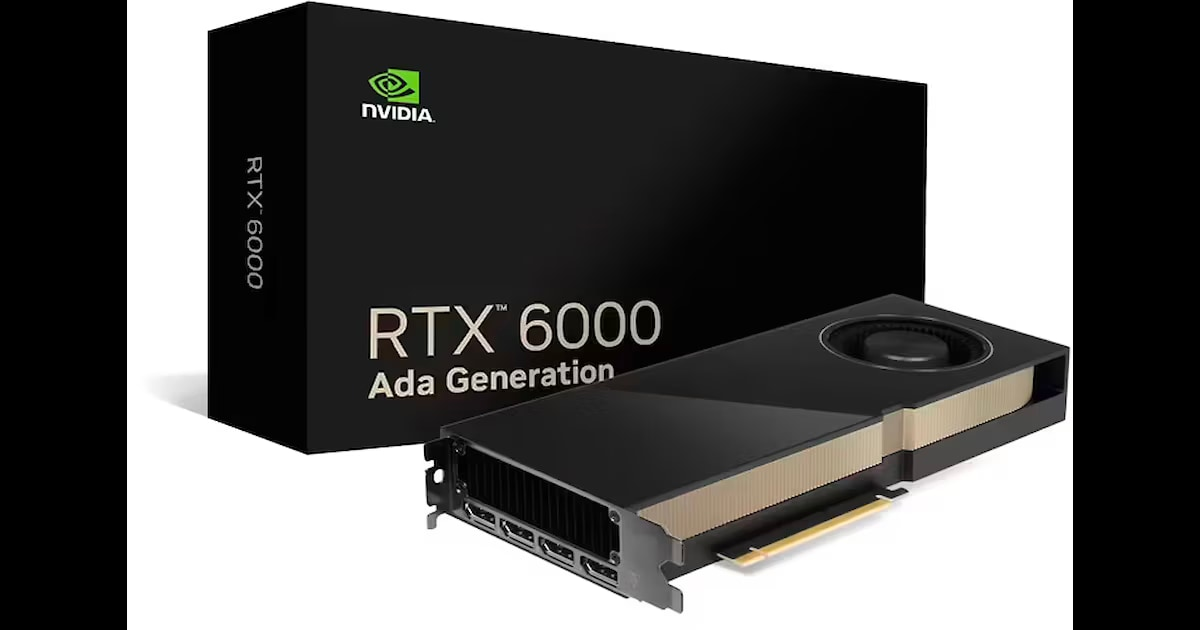
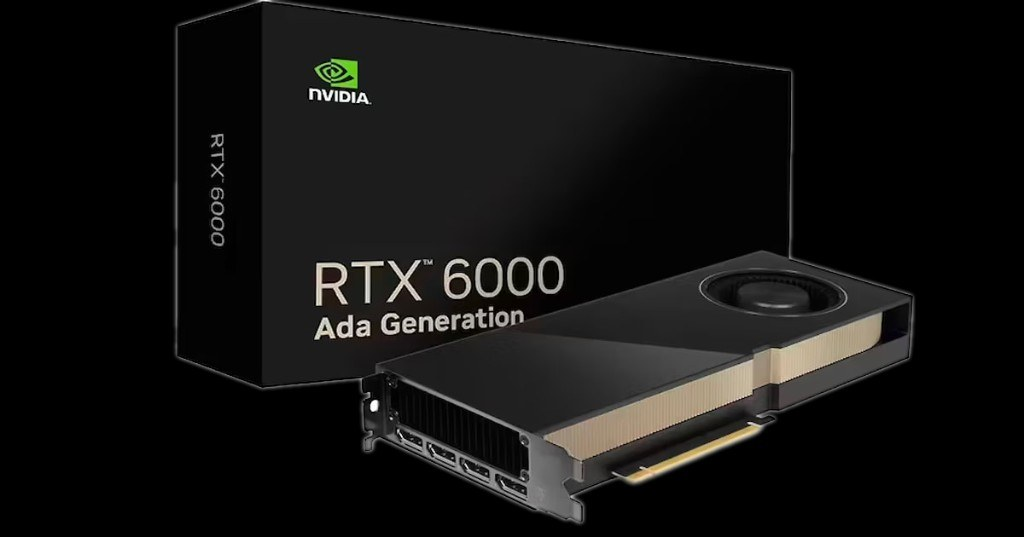
Refresh SSD, NIC, and GPU catalog photos and add Adminer for Postgres.
Add migrations for Micron, U.2, NIC, and RTX 6000 Ada image URLs, update product shots, and expose a web DB console on port 8081 for local development.

diff --git a/shop/components/storefront.tsx b/shop/components/storefront.tsx
@@ -109,7 +109,7 @@ export function Storefront() {
     (p): p is CatalogProduct => Boolean(p),
   );
   const partCPU = catalog.find((p) => p.sku_code === "000076");
-  const partRAM = catalog.find((p) => p.sku_code === "000001");
+  const partRAM = catalog.find((p) => p.sku_code === "000032");
   const partSSD = catalog.find((p) => p.sku_code === "000006");
 
   return (

diff --git a/shop/lib/product-image.ts b/shop/lib/product-image.ts
@@ -10,5 +10,9 @@ export function catalogImageUrl(imageUrl?: string | null): string {
     return raw;
   }
   const path = raw.startsWith("/") ? raw : `/${raw}`;
-  return `${API_URL}${path}`;
+  const base = `${API_URL}${path}`;
+  if (path.startsWith("/static/products/") && !/[?&]v=/.test(base)) {
+    return `${base}?v=20260834`;
+  }
+  return base;
 }

diff --git a/backend/cmd/seed/sku_image_test.go b/backend/cmd/seed/sku_image_test.go
@@ -13,6 +13,7 @@ func TestDefaultSKUImageURL(t *testing.T) {
 		{"SRV_RACK_2U", "Lenovo ThinkSystem SR650 V3 2U", "lenovo-sr650-v3.png"},
 		{"CPU_AMD", "AMD EPYC 7543 32C/64T Milan", "amd-epyc.jpg"},
 		{"MEM_SERVIDOR", "Samsung 32GB DDR4-3200 ECC RDIMM", "rdimm-micron.jpg"},
+		{"MEM_ECC", "Micron 16GB DDR4-3200 ECC RDIMM", "rdimm-micron.jpg"},
 		{"STG_SAN", "Seagate Exos X 2U12 12 baias SAS", "seagate-exos-chassis.png"},
 		{"SW_ACCESS", "Cisco Catalyst 9300 48p 1G", "cisco-catalyst-9300.png"},
 		{"SW_DATACENTER", "Cisco Nexus 93180YC-FX 48p 25G", "cisco-nexus-93180.png"},

diff --git a/backend/cmd/seed/sku_image.go b/backend/cmd/seed/sku_image.go
@@ -31,6 +31,8 @@ func defaultSKUImageURL(category, skuName string) string {
 		return skuImagePrefix + "arista-7050sx.png"
 	case strings.Contains(name, "juniper") || strings.Contains(name, "ex4300"):
 		return skuImagePrefix + "juniper-ex4300.png"
+	case strings.Contains(name, "micron") && (strings.Contains(name, "rdimm") || strings.Contains(name, "lrdimm") || strings.Contains(name, "dimm")):
+		return skuImagePrefix + "rdimm-micron.jpg"
 	}
 
 	switch {

diff --git a/backend/README.md b/backend/README.md
@@ -15,6 +15,24 @@ docker compose up -d
 make seed
 ```
 
+### PostgreSQL (dev)
+
+| Campo | Valor |
+|-------|-------|
+| Host | `localhost` |
+| Porta | `5434` |
+| Banco | `datacenterla` |
+| Usuário | `datacenterla` |
+| Senha | `datacenterla` |
+
+**Adminer (web):** com `docker compose up -d`, abra [http://localhost:8081](http://localhost:8081), sistema **PostgreSQL**, servidor **`postgres`** (dentro do Docker) ou **`host.docker.internal:5434`** se o banco estiver só na máquina host.
+
+Também pode usar DBeaver, pgAdmin ou `psql`:
+
+```bash
+psql postgres://datacenterla:datacenterla@localhost:5434/datacenterla
+```
+
 ### Credenciais dev (seed)
 
 | Campo | Valor |
